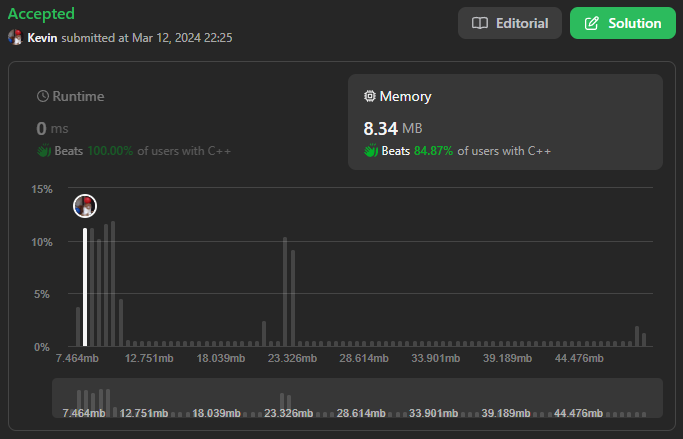
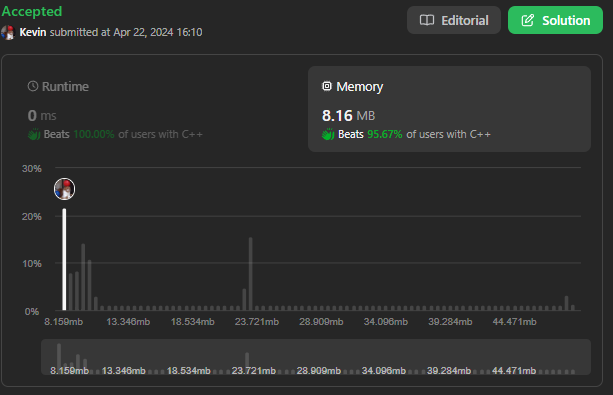
Update 151 Reverse Words in a String

diff --git a/Probleme/0151. Reverse Words in a String/main.cpp b/Probleme/0151. Reverse Words in a String/main.cpp
@@ -1,47 +1,49 @@
 class Solution
 {
   public:
-    string reverseWords(string s)
+    string reverseWords(string &s)
     {
-        // Initialiser les indices de gauche et de droite pour parcourir la chaîne de caractères
-        int left = s.size() - 1;  // Indice de départ pour le premier caractère non-espace à droite
-        int right = s.size() - 1; // Indice de fin pour le dernier caractère non-espace à droite
+        // Inverse toute la chaîne de caractères
+        reverse(s.begin(), s.end());
 
-        // Chaîne de caractères pour stocker le résultat
-        string output;
-        output.reserve(s.size());
+        int left = 0;
+        int right = 0;
 
-        // Parcourir la chaîne de caractères de droite à gauche
-        while (left >= 0)
+        int rightNS = 0;
+
+        // Parcours de la chaîne de caractères
+        while (right < s.size())
         {
-            // Ignorer les espaces à la fin
-            while (left >= 0 && s[left] == ' ')
+            // Ignorer les espaces au début de chaque mot
+            while (right < s.size() && s[right] == ' ')
             {
-                left--; // Décrémenter l'indice de gauche tant que l'on rencontre des espaces
+                right++;
             }
-            if (left == -1)
+            left = right;
+
+            int size = 0;
+
+            // Déplacement des caractères d'un mot vers leur nouvelle position
+            while (right < s.size() && s[right] != ' ')
             {
-                break; // Si nous avons atteint le début de la chaîne, sortir de la boucle
+                swap(s[rightNS], s[right]);
+                rightNS++;
+                right++;
+                size++;
             }
-            right = left; // Mettre à jour l'indice de droite pour marquer le début d'un nouveau mot
-            while (left >= 0 && s[left] != ' ')
-            {
-                left--; // Décrémenter l'indice de gauche tant que l'on rencontre des caractères non-espace
-            }
-            // Ajouter le mot à la chaîne de sortie en parcourant de gauche à droite
-            for (int i = left + 1; i <= right; i++)
-            {
-                output += s[i];
-            }
-            output += ' '; // Ajouter un espace entre les mots
+
+            // Inversion du mot pour le remettre dans l'ordre d'origine
+            reverse(s.begin() + rightNS - size, s.begin() + rightNS);
+            s[rightNS] = ' ';
+            rightNS++;
         }
 
-        // Supprimer l'espace en trop à la fin si la chaîne de sortie n'est pas vide
-        if (output.size() != 0)
+        // Suppression des espaces en trop à la fin de la chaîne
+        while (s.back() == ' ')
         {
-            output.pop_back();
+            s.pop_back();
         }
 
-        return output;
+        return s;
     }
 };

diff --git a/Probleme/0151. Reverse Words in a String/readme.md b/Probleme/0151. Reverse Words in a String/readme.md
@@ -36,13 +36,73 @@ Il y a **au moins un** mot dans `s`.
 
 ## Note personnelle
 
+Date: 12-03-2024
+
 Ma méthode repose sur l'utilisation de deux indices, `left` et `right`, que j'itére depuis la fin de la chaîne.  
 Mon objectif est de repérer le premier caractère qui n'est pas un espace. Une fois ce caractère trouvé, les indices `left` et `right` on pour valeur la position de cet element.  
 Ensuite, je continue à parcourir la chaîne jusqu'à rencontrer un espace. À ce moment-là, `left + 1` marque le début du mot et `right` la fin de celui-ci. Une fois le mot identifié, je l'ajoute à ma chaîne de sortie. Je répète ce processus jusqu'à ce que j'atteigne la fin de la chaîne.
 
+```cpp
+string reverseWords(string s) {
+  // Initialiser les indices de gauche et de droite pour parcourir la chaîne de caractères
+  int left = s.size() - 1;  // Indice de départ pour le premier caractère non-espace à droite
+  int right = s.size() - 1; // Indice de fin pour le dernier caractère non-espace à droite
+
+  // Chaîne de caractères pour stocker le résultat
+  string output;
+  output.reserve(s.size());
+
+  // Parcourir la chaîne de caractères de droite à gauche
+  while (left >= 0) {
+    // Ignorer les espaces à la fin
+    while (left >= 0 && s[left] == ' ') {
+      left--; // Décrémenter l'indice de gauche tant que l'on rencontre des espaces
+    }
+    if (left == -1) {
+      break; // Si nous avons atteint le début de la chaîne, sortir de la boucle
+    }
+    right = left; // Mettre à jour l'indice de droite pour marquer le début d'un nouveau mot
+    while (left >= 0 && s[left] != ' ') {
+      left--; // Décrémenter l'indice de gauche tant que l'on rencontre des caractères non-espace
+    }
+    // Ajouter le mot à la chaîne de sortie en parcourant de gauche à droite
+    for (int i = left + 1; i <= right; i++) {
+      output += s[i];
+    }
+    output += ' '; // Ajouter un espace entre les mots
+  }
+
+  // Supprimer l'espace en trop à la fin si la chaîne de sortie n'est pas vide
+  if (output.size() != 0) {
+    output.pop_back();
+  }
+
+  return output;
+}
+```
+
 Cette approche présente une complexité temporelle et spatiale de `O(n)`.
 
 J'ai réalisé après coup que la contrainte exigeait une complexité spatiale de `O(1)`, ce que je n'ai pas encore implémenté.
+
+UPDATE 22-04-2024
+
+Après avoir revisité cet exercice, j'ai mis en œuvre une méthode avec une complexité spatiale de `O(1)`.
+
+Tout d'abord, je commence par inverser la chaîne d'origine, puis j'initialise trois pointeurs:
+
+- `left`, qui marque le début d'un mot dans la chaîne d'origine.
+- `right`, qui marque la fin d'un mot dans la chaîne d'origine.
+- `rightNS`, qui représente la taille de la nouvelle chaîne.
+
+Ensuite, je parcours la chaîne inversée grâce à une boucle while imbriquée avec deux autres:
+
+- La première boucle permet de passer les espaces.
+- La deuxième parcourt le mot tout en décalant les caractères à leur place pour former une chaîne qui sépare les mots avec seulement un espace. À la fin des deux boucles, j'inverse les caractères du mot actuel et j'ajoute un espace à l'indice de fin de la nouvelle chaîne.
+
+À la fin de la boucle principale, je supprime tous les espaces qui se trouvent à la fin de celle-ci et je la renvoie comme réponse.
+
+Cette nouvelle approche présente une complexité temporelle de `O(n)` et une complexité spatiale de `O(1)`, ce qui respecte les contraintes de l'exercice.
 
 <img src="./imgs/runtime.png"/>
 <img src="./imgs/memory.png"/>
